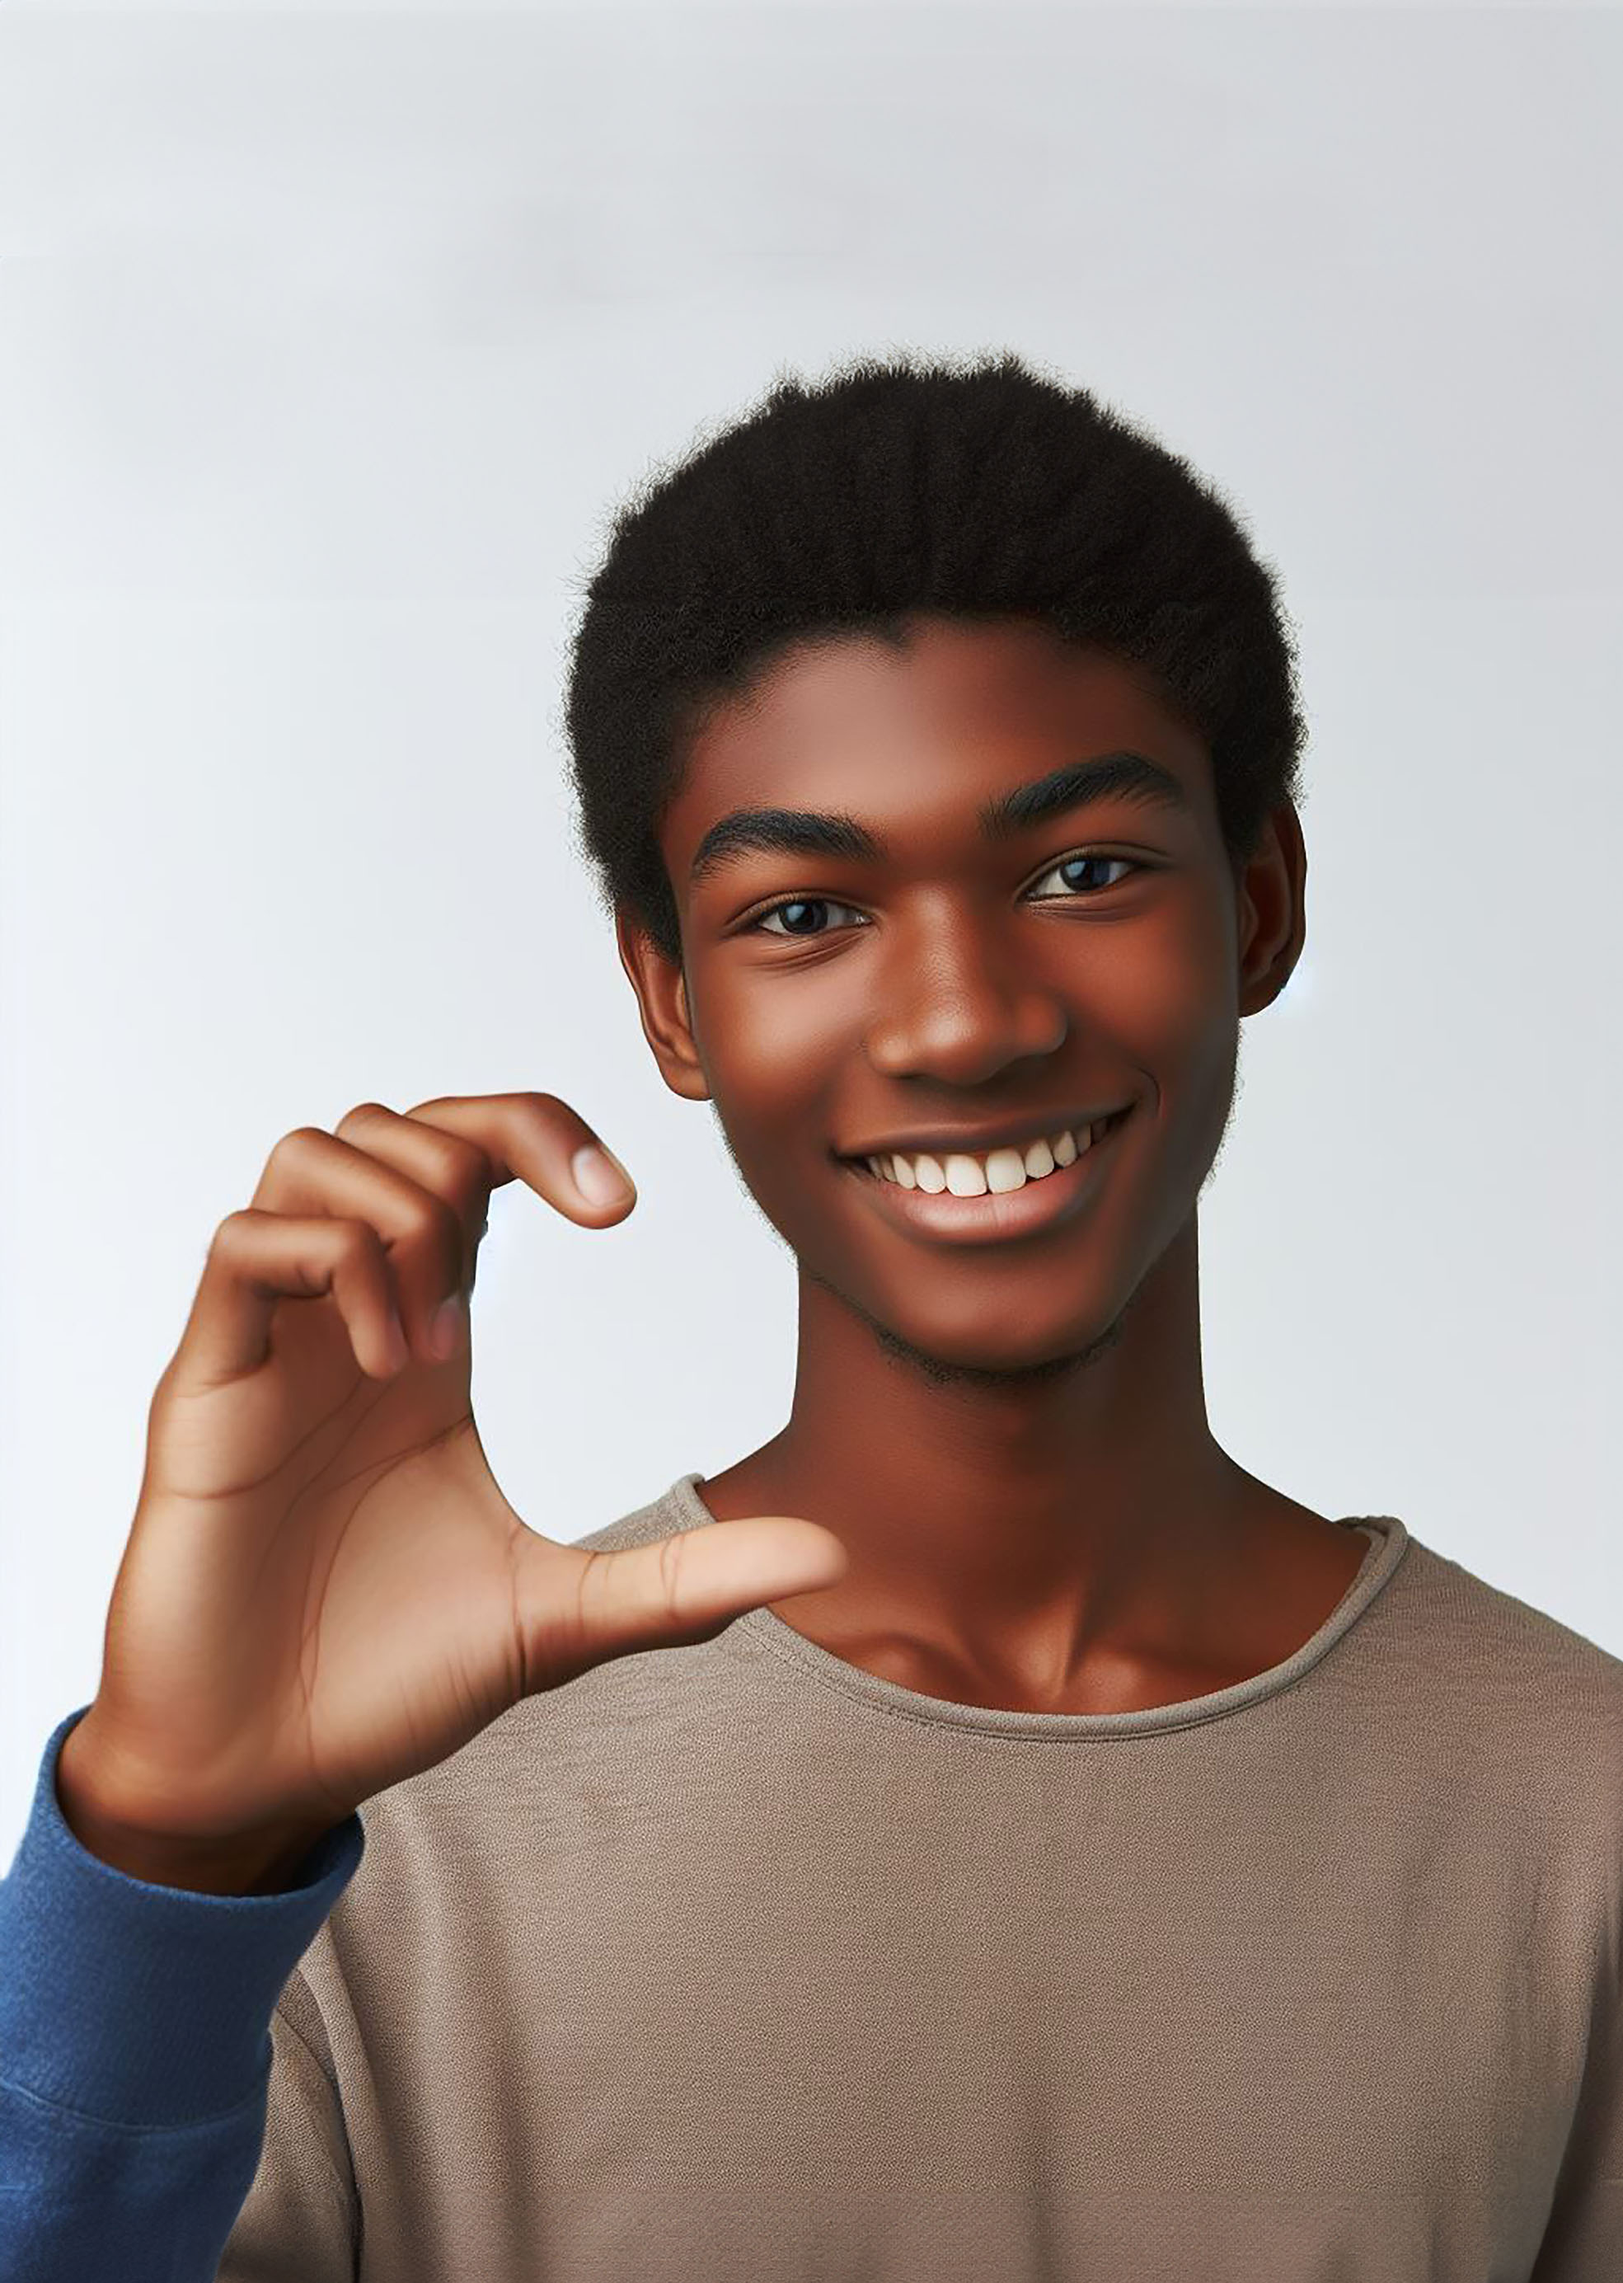
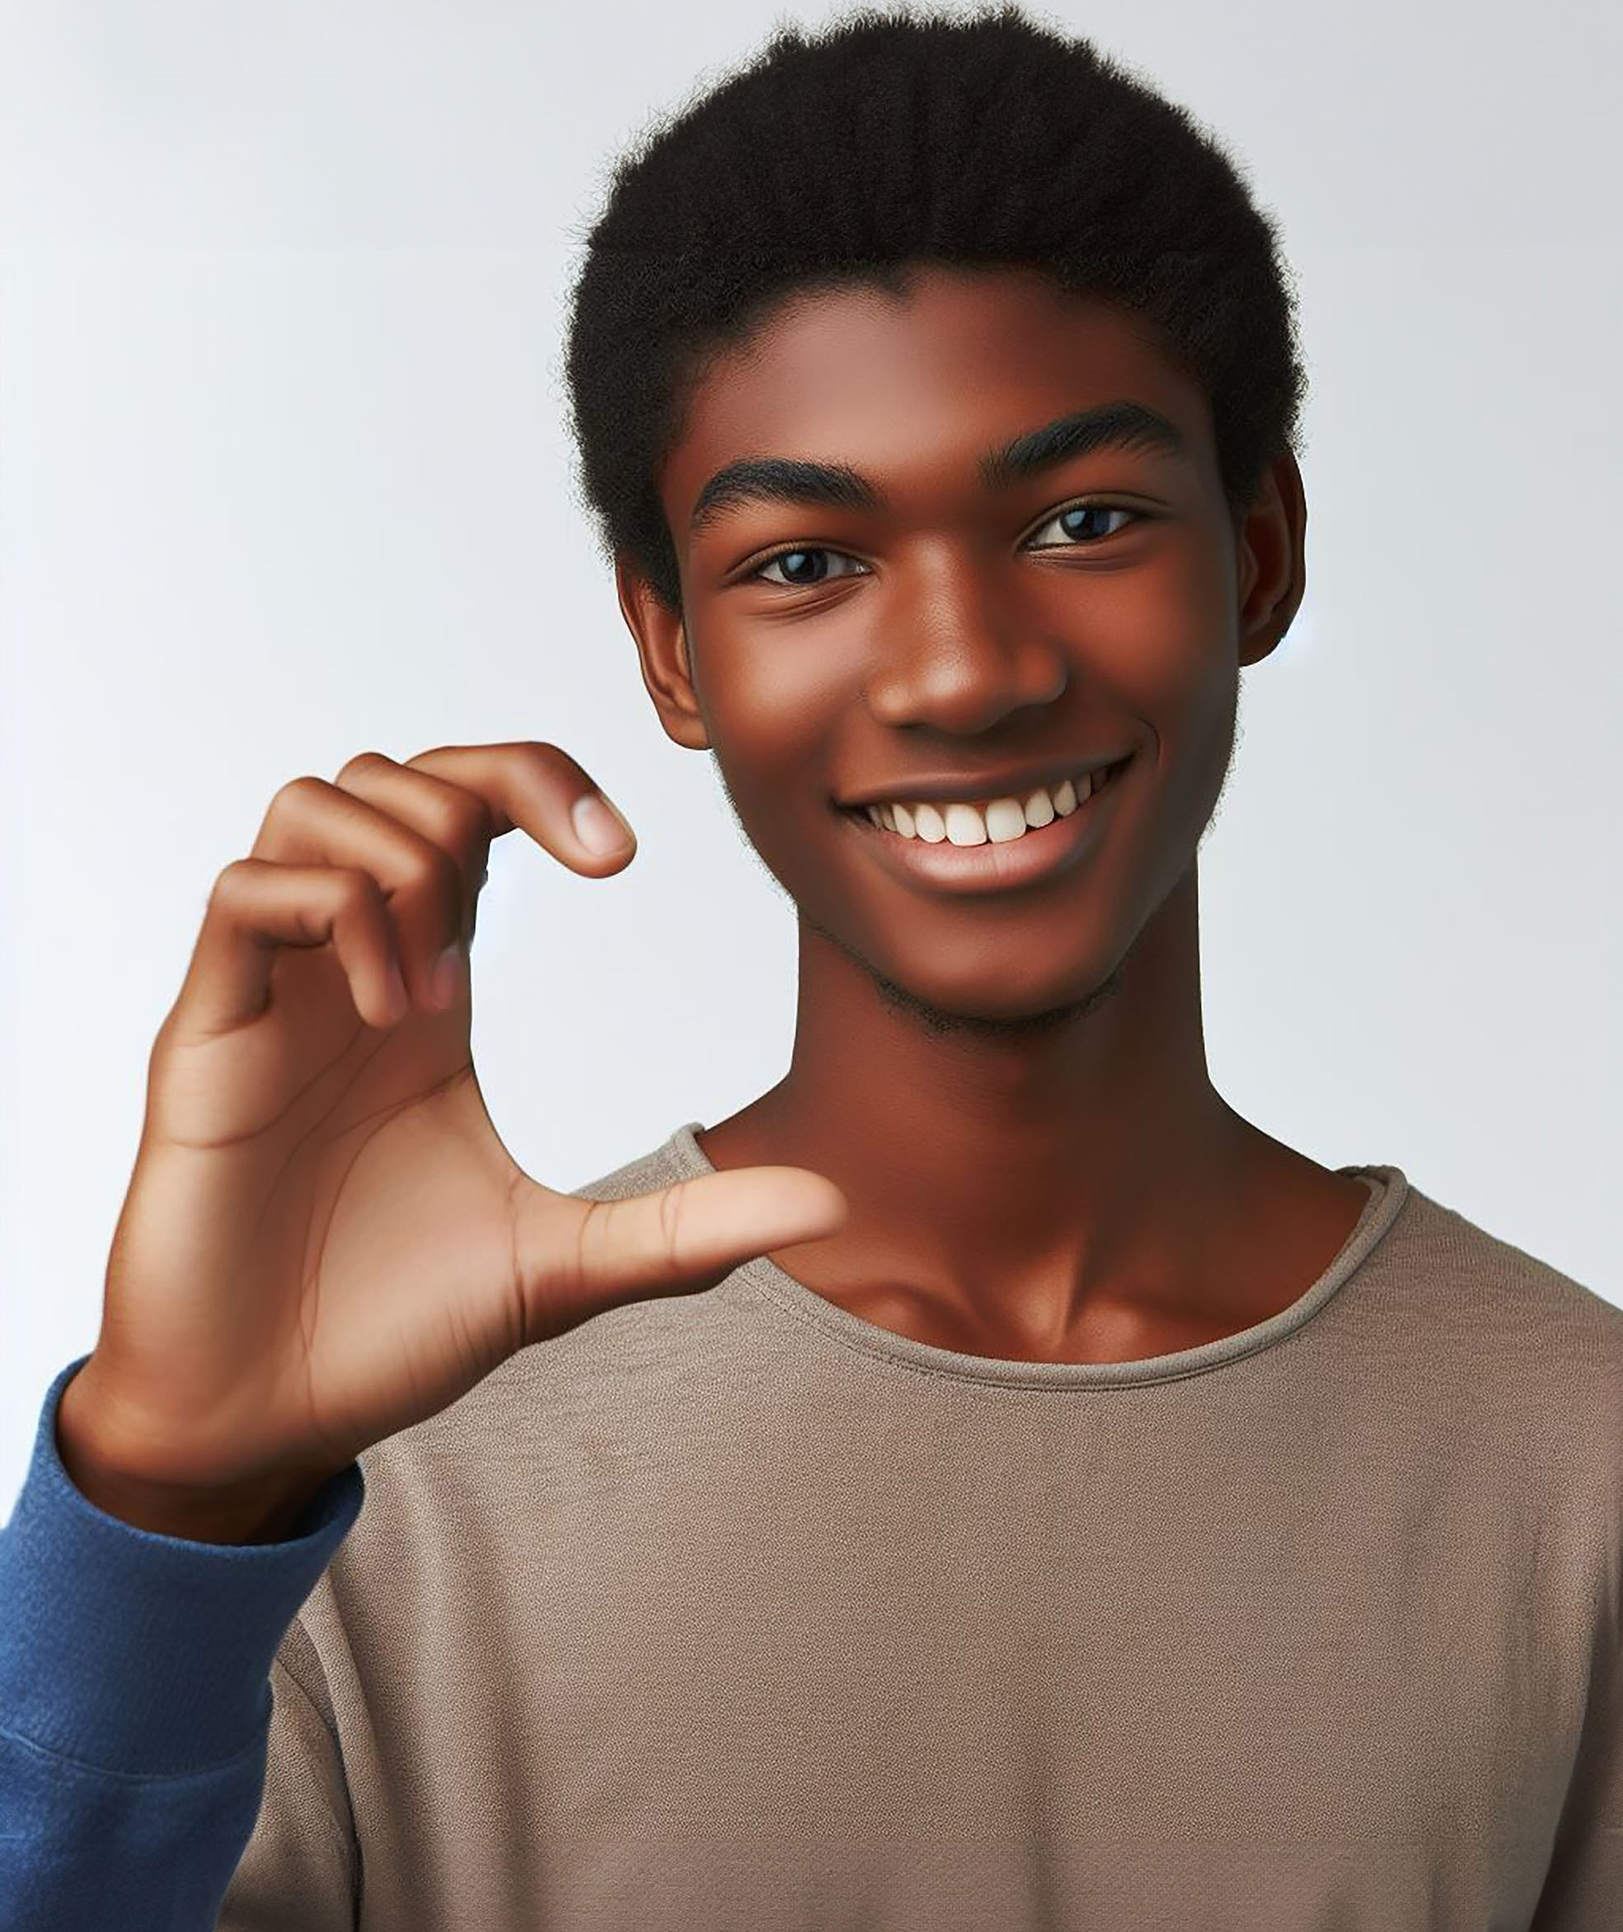
reduced sizes for 5 cs

diff --git a/src/views/WhatWeDoView.vue b/src/views/WhatWeDoView.vue
@@ -31,7 +31,7 @@
               >
                 <div class="flex flex-col md:flex-row">
                   <!-- Image -->
-                  <div class="md:w-1/3">
+                  <div class="md:w-1/4">
                     <div class="aspect-w-16 aspect-h-9">
                       <img
                         :src="`/5C/${item.image}`"
